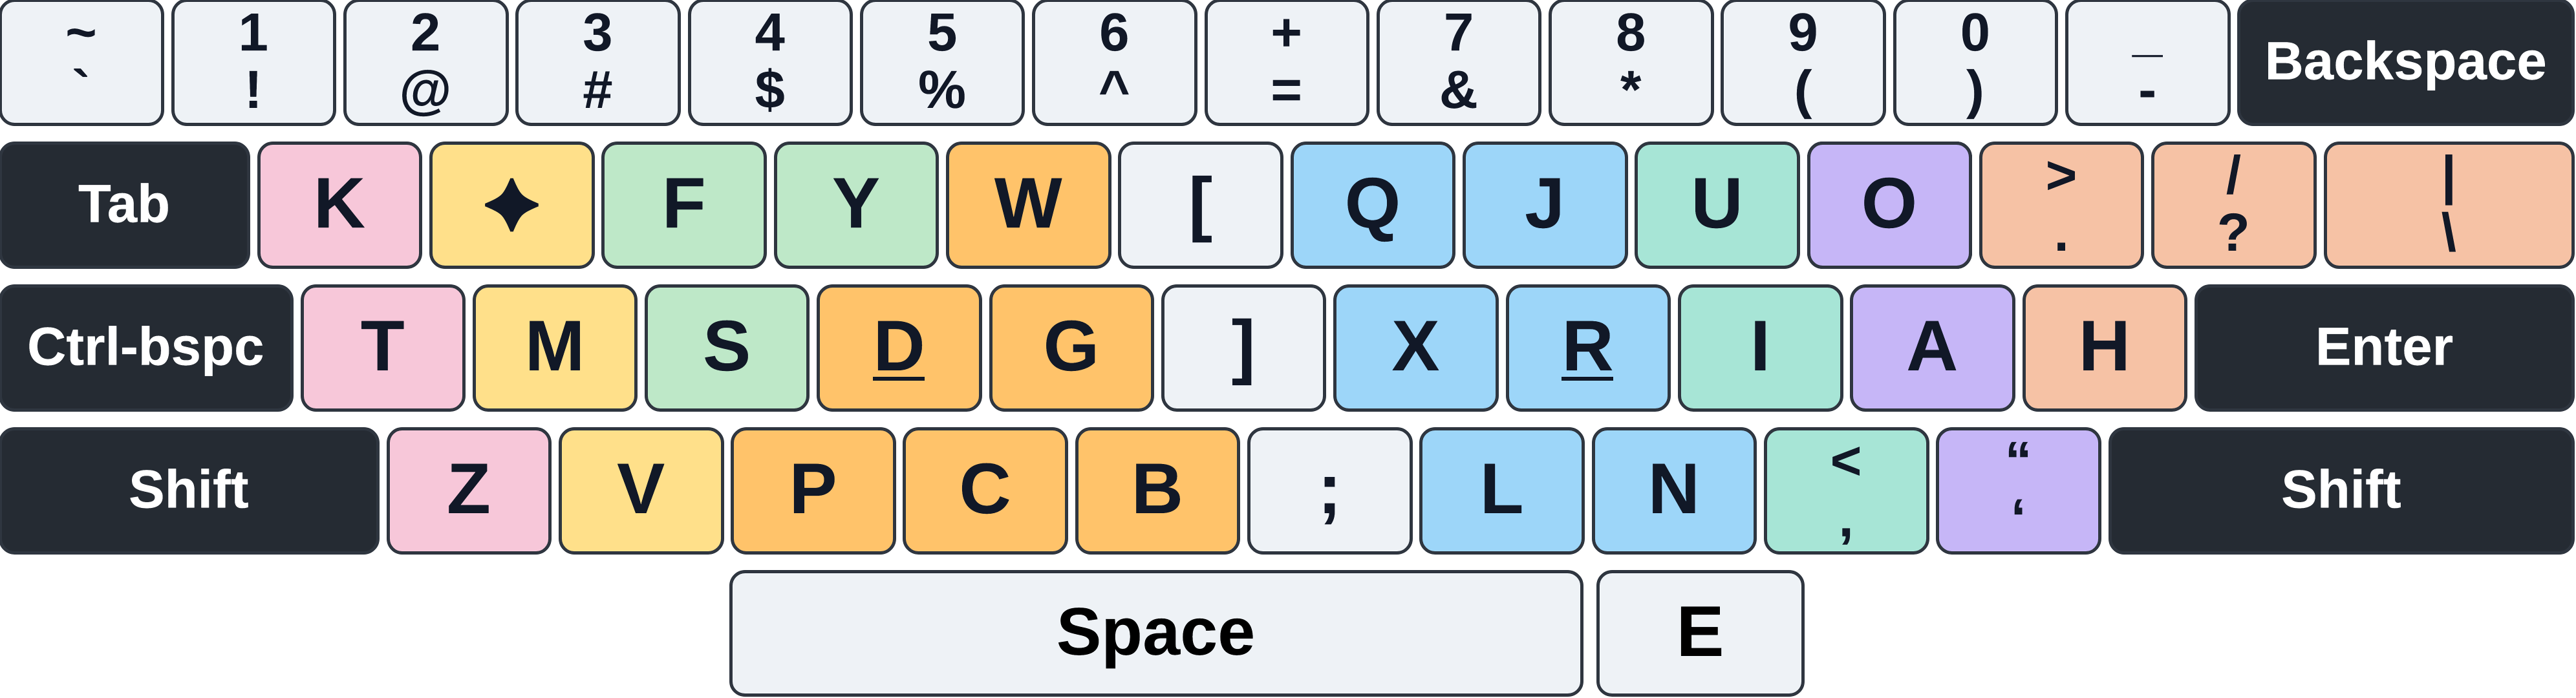
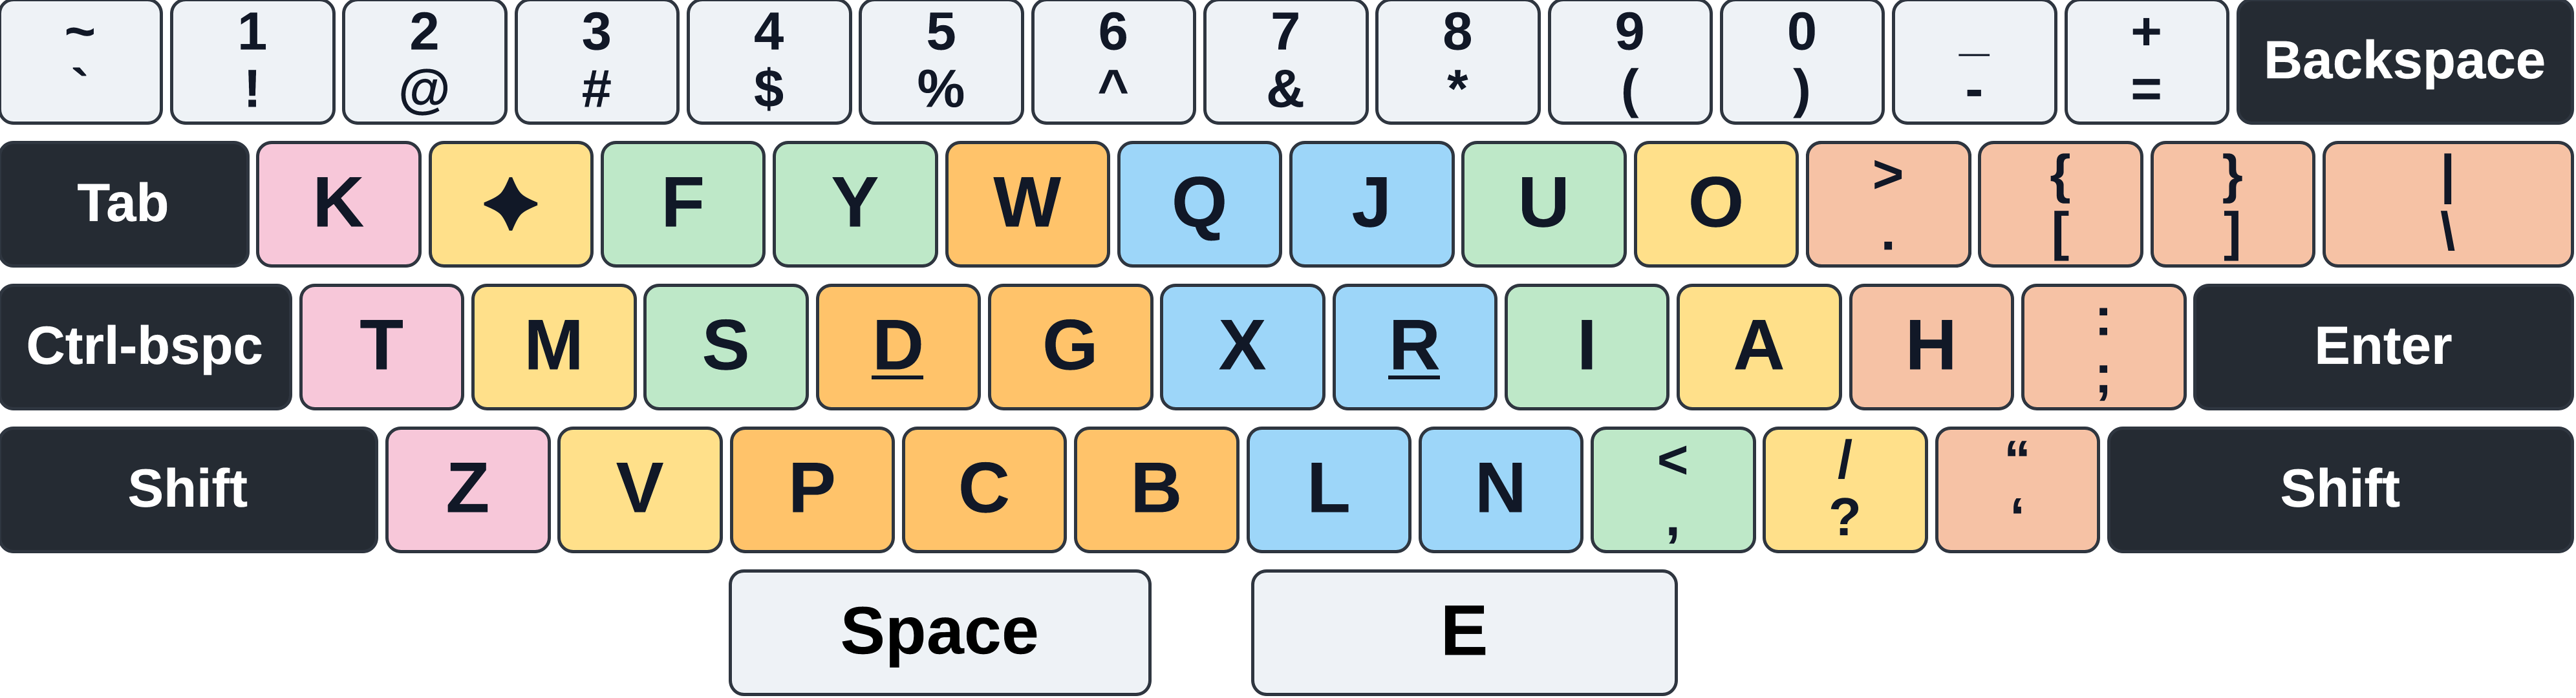
Layout Photos

diff --git a/README.md b/README.md
@@ -15,6 +15,9 @@ Hours is a highly optimized layout focused on modern implementations:
 ## Hours Layout
 ![Layout](https://github.com/antomfdez/hours-layout/blob/main/assets/Hours.png)
 
+## Hours Widemod Layout
+![Layout](https://github.com/antomfdez/hours-layout/blob/main/assets/Hours-wide.png)
+
 ## Mana2 stats (monkeyracer, spacegrams)
 ```
 Hand balance: 30.454% / 18.302% / 9.701% / 41.542%